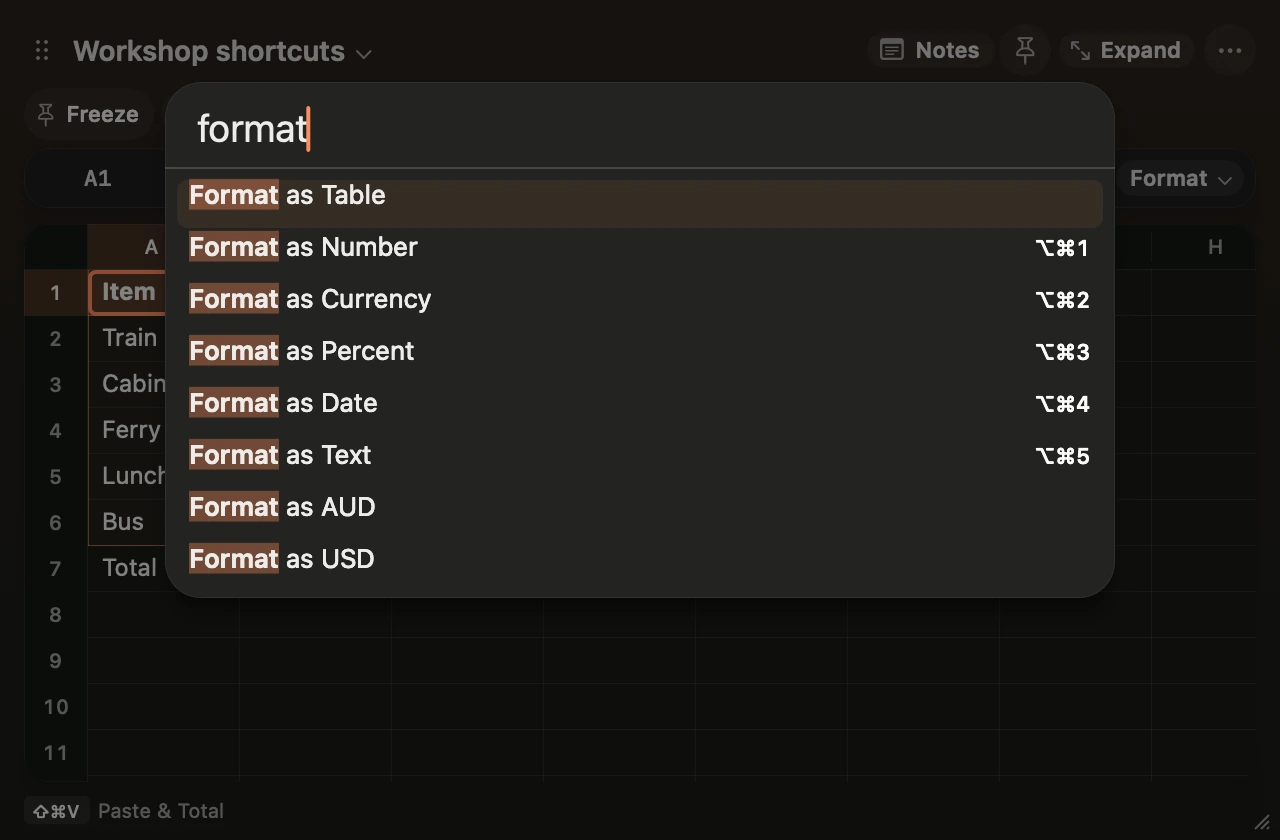
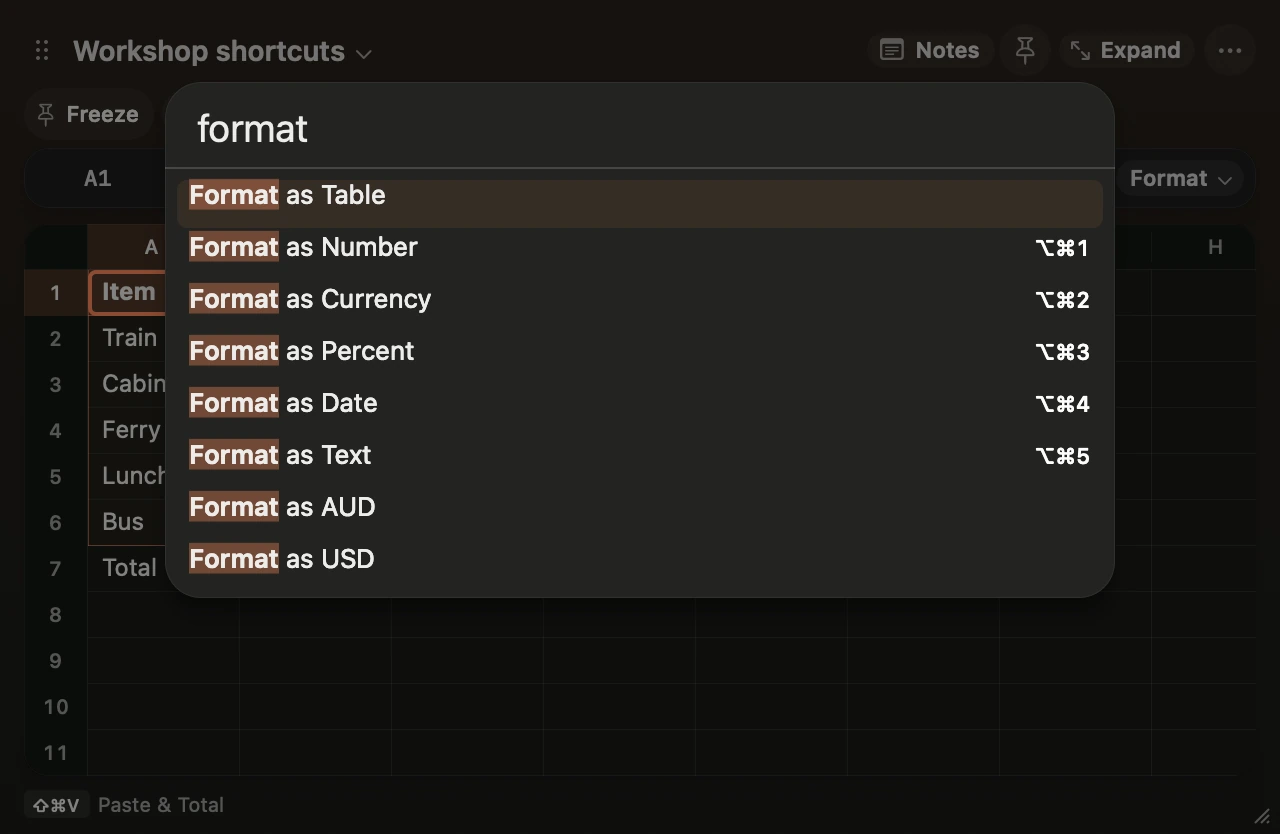
Document searchable sheets and keyboard cycling

diff --git a/content/docs/09-shortcuts.md b/content/docs/09-shortcuts.md
@@ -14,6 +14,8 @@ group: Start
 | Command Palette | ⇧⌘P | In Scratch |
 | Focus Notes or Grid | ⌥⌘J | In Scratch |
 | Send to Obsidian | ⇧⌘J | In Scratch |
+| Find a Sheet | ⌘K | In Scratch |
+| Next or Previous Sheet | ⌃Tab or ⌃⇧Tab | In Scratch |
 
 If another app intercepts a shortcut, click **Notes** or choose **Command Palette** from the ⋯ menu while you change the binding. For example, try ⌃⌥N for Notes and ⌃⌥P for the palette if those combinations are available on your Mac. Scratch flags conflicts with its own shortcuts.
 
@@ -26,6 +28,17 @@ Choose **Tables** in the command palette to find a table or its actions. **Creat
 Use **Hide Selected Rows**, **Hide Selected Columns**, **Show All Rows**, **Show All Columns** or **Fit Row Height** in the command palette. Option-drag a row or column header to move it. [Move, hide or resize rows and columns](/docs/grid#move-hide-or-resize-rows-and-columns).
 
 Find **New Workbook**, **Open Workbook**, **Open Default Workbook**, **Archive Current Sheet**, **Import Excel Values** and TSV export in the command palette. [Workbooks and sheet archive](/docs/grid#workbooks-and-sheet-archive).
+
+## Switch sheets
+
+Press ⌘K or choose **Switch Sheet** in the command palette. The last sheets you visited in this workbook appear first, with the cell you left selected on each. Press Return to reopen the first result, or type part of a sheet name. Use the arrows to highlight a result and Escape to return to your current sheet.
+
+Press ⌃Tab to move forward in workbook order or ⌃⇧Tab to move backward. Both wrap around and skip archived sheets. ⌘1 through ⌘9 still jump to sheets in workbook order. Click the sheet title to find actions such as Rename and Export.
+
+<figure class="scratch-media">
+<img class="scratch-light" src="/docs/sheet-switcher-light.webp" alt="The sheet switcher lists Coast trip with its last selected cell and marks November budget as the current sheet." width="1120" height="690" loading="lazy" decoding="async">
+<img class="scratch-dark" src="/docs/sheet-switcher-dark.webp" alt="The sheet switcher lists Coast trip with its last selected cell and marks November budget as the current sheet." width="1120" height="690" loading="lazy" decoding="async">
+</figure>
 
 <figure class="scratch-media">
 <img class="scratch-light" src="/docs/palette-shortcuts-light.webp" alt="The command palette shows formatting actions with their keyboard shortcuts." width="1280" height="840" loading="lazy" decoding="async">

diff --git a/content/docs/01-getting-started.md b/content/docs/01-getting-started.md
@@ -30,7 +30,7 @@ Click Scratch’s menu bar icon or press ⌥ Space. Press Escape on the grid to 
 <img class="scratch-dark scratch-poster" src="/docs/first-total-dark.webp" alt="Select five values, enter SUM in A6 and extend the reference to A1:A5 with Shift and Up." width="1080" height="700" loading="lazy" decoding="async">
 </figure>
 
-Use ⇧⌘N to create a sheet and ⌘K to switch sheets. Each sheet has its own grid, notes and column widths. Scratch autosaves the workbook locally. **Delete Current Sheet** removes a sheet from the workbook view. **Restore Deleted Sheet** recovers it, including its notes, after a restart.
+Use ⇧⌘N to create a sheet and ⌘K to [find a sheet by name](/docs/shortcuts#switch-sheets). Each sheet has its own grid, notes and column widths. Scratch autosaves the workbook locally. **Delete Current Sheet** removes a sheet from the workbook view. **Restore Deleted Sheet** recovers it, including its notes, after a restart.
 
 ## Change the shortcuts
 

diff --git a/content/changelog/2026-11-13-sheet-switcher.md b/content/changelog/2026-11-13-sheet-switcher.md
@@ -1,0 +1,10 @@
+---
+title: Find a sheet or cycle straight to it
+description: Search recent sheets with Command-K or cycle in workbook order with Control-Tab.
+---
+
+**Press ⌘K to find a sheet.** The sheets you recently visited appear first, with the last selected cell beside each name. Type to narrow the list or press Return to open the first result.
+
+**Press ⌃Tab to move to the next sheet or ⌃⇧Tab to go back.** Scratch wraps around the workbook and skips archived sheets. Each sheet keeps its selection and scroll position.
+
+[Keyboard shortcuts](/docs/shortcuts#switch-sheets)
